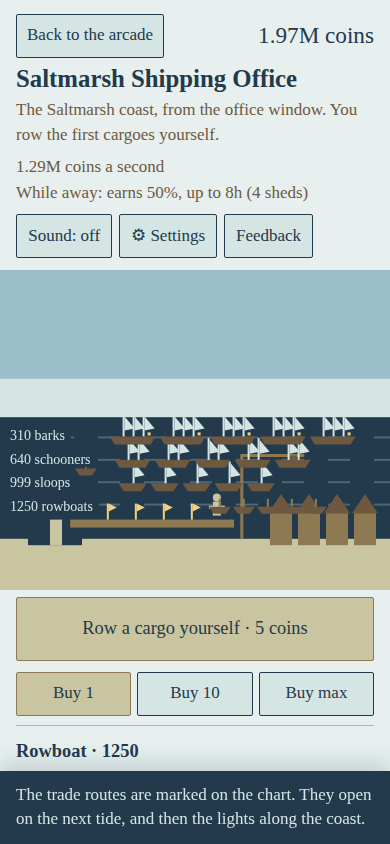
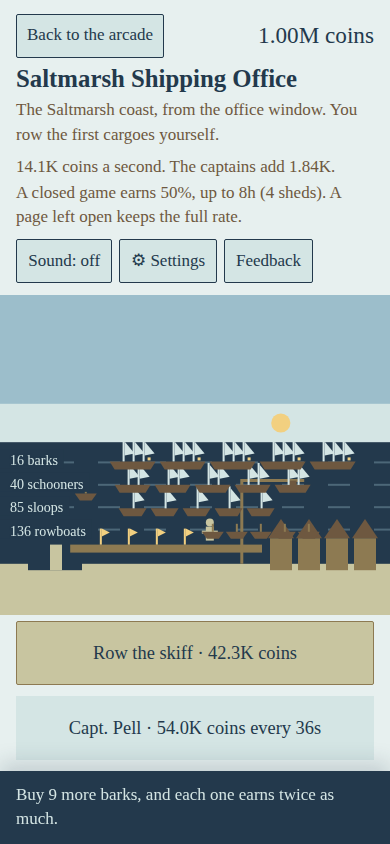
Keep the short harbour's boats on the water.
The sideways water rises to the top fleet, the quay stops short of the sheds, and the bar lamp sits above the sails. Sound, Settings and Feedback stay at least 44 pixels tall.

diff --git a/tests/saltmarsh-shipping.html b/tests/saltmarsh-shipping.html
@@ -222,6 +222,7 @@ document.querySelector('#run').onclick = async function () {
       var bought = M.buy(s, 3, 1);
       return bought.ok && s.boats[3].owned === 12 && bought.notes.length === 1 && /quay grows longer/.test(s.log[0].text);
     })());
+    check('a full shed yard does not pretend to cost nothing', M.shedChoiceText(null) === 'The sheds are full' && M.shedChoiceText(480) === 'Another shed · 480 coins');
     check('a closed-game captain line gives the haul total', (function () {
       var s = ready();
       s.captains[0].hired = true;
@@ -525,6 +526,10 @@ document.querySelector('#run').onclick = async function () {
     var rowBox = wideWin.document.querySelector('#row').getBoundingClientRect();
     var goalBox = wideWin.document.querySelector('#goal').getBoundingClientRect();
     check('at 844 by 390 the Row button is on screen', rowBox.top >= 0 && rowBox.bottom <= goalBox.top + 1 && rowBox.height >= 44);
+    var soundH = wideWin.document.querySelector('#sound').getBoundingClientRect().height;
+    var settingsH = wideWin.document.querySelector('.arc-set-btn').getBoundingClientRect().height;
+    var feedbackH = wideWin.document.querySelector('.feedback-container button').getBoundingClientRect().height;
+    check('at 844 by 390 Sound, Settings and Feedback are at least 44px', soundH >= 44 && settingsH >= 44 && feedbackH >= 44);
     var labelState = ready();
     labelState.boats[0].owned = 40;
     labelState.boats[1].owned = 20;
@@ -540,11 +545,14 @@ document.querySelector('#run').onclick = async function () {
     var labelCanvas = labelWin.document.querySelector('#harbour');
     var labelH = labelCanvas.getBoundingClientRect().height;
     var labelYs = labelWin.SaltmarshHarbour.laneYs(labelH, 4);
+    var waterLine = labelWin.SaltmarshHarbour.waterTop(labelH, 4);
     var labelsClear = labelYs.length === 4 && labelYs[3] - 12 >= 0;
-    for (var li = 0; li < labelYs.length - 1; li++) {
-      if (labelYs[li] - labelYs[li + 1] < 20) labelsClear = false;
+    var hullsOnWater = true;
+    for (var li = 0; li < labelYs.length; li++) {
+      if (li < labelYs.length - 1 && labelYs[li] - labelYs[li + 1] < 20) labelsClear = false;
+      if (labelYs[li] < waterLine - 0.5 || labelYs[li] + 8 > labelH * 0.86 + 0.5) hullsOnWater = false;
     }
-    check(labelsClear ? 'at 844 by 390 the boat labels do not overlap' : 'at 844 by 390 labels overlap, height ' + Math.round(labelH) + ' ys ' + labelYs.join(','), labelsClear);
+    check(labelsClear && hullsOnWater ? 'at 844 by 390 the boat labels do not overlap and every boat sits on the water' : 'at 844 by 390 harbour, height ' + Math.round(labelH) + ', water ' + waterLine.toFixed(1) + ', ys ' + labelYs.join(','), labelsClear && hullsOnWater);
 
     wipe();
     var touchFrame = await loadFrame('touch');

diff --git a/games/saltmarsh-shipping/harbour.js b/games/saltmarsh-shipping/harbour.js
@@ -26,6 +26,13 @@
     return ys;
   }
 
+  /* On a short canvas the top row sits above the usual waterline, so the water rises to meet it. */
+  function waterTop(h, n) {
+    var ys = laneYs(h, n);
+    var topLane = n ? ys[n - 1] : h * 0.74;
+    return Math.min(h * 0.46, topLane - 4);
+  }
+
   function boatCount(state, i) {
     return state.boats && state.boats[i] ? state.boats[i].owned : 0;
   }
@@ -88,10 +95,14 @@
 
       ctx.fillStyle = SKY;
       ctx.fillRect(0, 0, w, h);
+      var laneN = 0;
+      for (var ln = 0; ln < 4; ln++) if (boatCount(state, ln) > 0) laneN++;
+      var topLane = laneN ? laneYs(h, laneN)[laneN - 1] : h * 0.74;
+      var waterLine = waterTop(h, laneN);
       ctx.fillStyle = MIST;
-      ctx.fillRect(0, h * 0.34, w, h * 0.16);
+      ctx.fillRect(0, waterLine - h * 0.12, w, h * 0.16);
       ctx.fillStyle = WATER;
-      ctx.fillRect(0, h * 0.46, w, h * 0.4);
+      ctx.fillRect(0, waterLine, w, h * 0.86 - waterLine);
       ctx.globalAlpha = 0.35;
       ctx.fillStyle = SKY;
       for (var wave = 0; wave < 4; wave++) {
@@ -128,12 +139,15 @@
       for (var b = 0; b < 4; b++) best = Math.max(best, boatCount(state, b));
       var barks = boatCount(state, 3);
       var flagsOn = best >= 25 || barks >= 12;
+      var quayEnd = Math.min(w * (barks >= 12 ? 0.74 : 0.60), w - 36 - (sheds - 1) * 28 - 8);
       ctx.fillStyle = TIMBER;
-      ctx.fillRect(w * 0.18, h * 0.78, w * (barks >= 12 ? 0.56 : 0.42), 8);
-      if (barks >= 16) {
+      ctx.fillRect(w * 0.18, h * 0.78, Math.max(0, quayEnd - w * 0.18), 8);
+      var lampR = Math.max(3, h * 0.03);
+      var lampY = Math.min(h * 0.40, topLane - 22 - lampR - 6);
+      if (barks >= 16 && lampY - lampR >= 2) {
         ctx.fillStyle = LAMP;
         ctx.beginPath();
-        ctx.arc(w * 0.72, h * 0.56, Math.max(3, h * 0.03), 0, Math.PI * 2);
+        ctx.arc(w * 0.72, lampY, lampR, 0, Math.PI * 2);
         ctx.fill();
       }
       ctx.font = '14px Georgia, Palatino, serif';
@@ -250,5 +264,5 @@
     return { stop: function () { running = false; } };
   }
 
-  window.SaltmarshHarbour = { init: init, laneYs: laneYs };
+  window.SaltmarshHarbour = { init: init, laneYs: laneYs, waterTop: waterTop };
 })();

diff --git a/games/saltmarsh-shipping/style.css b/games/saltmarsh-shipping/style.css
@@ -202,7 +202,7 @@ button[aria-pressed="true"] { background: var(--sand); border-color: var(--timbe
   .coins { font-size: 1.1rem; }
   .tools-row { margin-top: 0.15rem; }
   .harbour-wrap { margin-top: 0.2rem; margin-bottom: 0.1rem; }
-  .tools-row button, .arc-set-btn, .home { min-height: 36px; padding: 0.1rem 0.45rem; }
+  .tools-row button, .arc-set-btn, .home { min-height: 44px; padding: 0.1rem 0.45rem; }
   .harbour-wrap canvas,
   .window[data-phase="fleet"] .harbour-wrap canvas { height: 128px; }
   .goalbar { padding: 0.35rem 0.75rem calc(0.35rem + env(safe-area-inset-bottom)); }

diff --git a/games/saltmarsh-shipping/model.js b/games/saltmarsh-shipping/model.js
@@ -205,6 +205,11 @@
   }
 
   /* Whole coins under a thousand, then the same short scale as the rest of the arcade. */
+  function shedChoiceText(cost) {
+    if (cost == null) return 'The sheds are full';
+    return 'Another shed · ' + coins(cost) + ' coins';
+  }
+
   function coins(n) {
     n = Math.round(n);
     if (!isFinite(n)) return '0';
@@ -774,6 +779,7 @@
     quote: quote,
     buy: buy,
     coins: coins,
+    shedChoiceText: shedChoiceText,
     fittingOffers: fittingOffers,
     buyFitting: buyFitting,
     choiceOffer: choiceOffer,

diff --git a/games/saltmarsh-shipping/game.js b/games/saltmarsh-shipping/game.js
@@ -266,7 +266,7 @@
     }
     if (shedBtn) {
       shedBtn.disabled = !offer.shed.affordable;
-      shedBtn.textContent = 'Another shed · ' + money(offer.shed.cost || 0) + ' coins';
+      shedBtn.textContent = M.shedChoiceText(offer.shed.cost);
     }
   }
 

diff --git a/docs/saltmarsh-lighting.md b/docs/saltmarsh-lighting.md
@@ -45,9 +45,11 @@ The shipping office (`games/saltmarsh-shipping/`) uses the four coast colours fr
 
 | Role | Hex | Where it shows |
 | --- | --- | --- |
-| Timber | `#8d7a52` | Sheds, the pier, and the pressed edge of a buy button |
+| Timber | `#8d7a52` | Sheds, the pier, the longer quay at twelve barks, and the pressed edge of a buy button |
 | Hull | `#6e5840` | Boat hulls, the quieter sentences, and the name of a boat you cannot buy yet |
 | Paper | `#e7f0ef` | The page behind the harbour |
 | Panel | `#f4faf8` | The away log, the harbour log, the fleet card, and the shed card |
+| House lamplight | `#f2d080` | The office lamp, the house flags, the bark stern light, and the bar lamp at sixteen barks |
+| Sand | `#c8c5a0` | The beach, and Hollis's marks on the fleet chart |
 
 Two deliberate differences from the house art notes: the ink is the night water `#23394c`, and the shapes are flat, with no outline and no light from the upper left, until the final drawing. `#e6c56a` and `#1d5c45` are not used.
